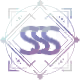
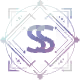
feat: improve tierlist page

Changed region(s): [[0.225, 0.3, 0.775, 0.7], [0.65, 0.325, 0.75, 0.4]]

diff --git a/src/components/tierlist/TierList.tsx b/src/components/tierlist/TierList.tsx
@@ -70,21 +70,32 @@ export default function TierList({ tier }): JSX.Element {
 
   return (
     <div className="flex flex-col gap-y-8 relative">
-      <div className="flex flex-col md:flex-row justify-between pb-8">
-        <div>
+      <div className="flex flex-col md:flex-row justify-between pb-8 w-full">
+        <div className="w-full">
+          <div className="flex flex-col md:flex-row justify-between">
+            <p className="mb-4">
+              Last updated: {formatDistanceToNow(new Date(tier.lastUpdated))}{" "}
+              ago
+            </p>
+            <p>
+              This tierlist has been made by{" "}
+              <span className="text-beige">Raon Miru#7516</span>
+            </p>
+          </div>
           <p>
-            Last updated: {formatDistanceToNow(new Date(tier.lastUpdated))} ago
-          </p>
-          <p>
-            This tierlist has been made by{" "}
-            <span className="text-beige">Raon Miru#7516</span>
-            <br />
-            <a
-              className="underline"
-              href="https://docs.google.com/document/d/1YNG8cR9lTYwNUFBOOeEAU3bNPP48MQIUGXCfpl1POwA/edit?usp=sharing"
-            >
-              You can find the source here
-            </a>
+            <div className="text-center mt-8 max-w-xl mx-auto">
+              <p>
+                Damage dealers are ranked from SSS tier to B tier, while
+                characters of other roles are not ranked in different tier but
+                only from left to right
+              </p>
+              <a
+                className="text-beige border-b border-dotted hover:border-transparent"
+                href="https://docs.google.com/document/d/1YNG8cR9lTYwNUFBOOeEAU3bNPP48MQIUGXCfpl1POwA/edit?usp=sharing"
+              >
+                More info on categorizing can be read here
+              </a>
+            </div>
           </p>
         </div>
 

diff --git a/src/models/tiers.ts b/src/models/tiers.ts
@@ -1,5 +1,6 @@
 import tierlistSubjugation from '../data/tierlist_subjugation.json'
 
+import SearchRankSSS from '../../public/ui/search/search_rank_sss.png';
 import SearchRankSS from '../../public/ui/search/search_rank_ss.png';
 import SearchRankS from '../../public/ui/search/search_rank_1.png';
 import SearchRankA from '../../public/ui/search/search_rank_2.png';
@@ -38,6 +39,7 @@ export interface Tier {
 }
 
 export interface Tiers {
+  SSS?: Tier[];
   SS?: Tier[];
   S?: Tier[];
   A?: Tier[];
@@ -64,6 +66,7 @@ export interface TiersTabs {
 }
 
 const RANK_THUMBNAILS = {
+  SSS: SearchRankSSS,
   SS: SearchRankSS,
   S: SearchRankS,
   A: SearchRankA,

diff --git a/src/pages/tierlists/[[...slug]].tsx b/src/pages/tierlists/[[...slug]].tsx
@@ -52,7 +52,7 @@ export default function TierlistsPageProps({
         <h2 className="overlap">Tierlists</h2>
         {!router.isFallback && (
           <Tabs defaultIndex={tabIndex} onChange={handleTabsChange}>
-            <TabList className="grid grid-cols-2 md:grid-cols-4 gap-8 mb-16 m:mb-14">
+            <TabList className="grid grid-cols-2 md:grid-cols-4 gap-8 mb-8">
               {tiers.map((tier) => (
                 <TierListTab key={tier.index} index={tier.index}>
                   {tier.label}

diff --git a/src/components/tierlist/TierListTab.tsx b/src/components/tierlist/TierListTab.tsx
@@ -13,7 +13,7 @@ export default function TierlistTab({ children, index }): JSX.Element {
     >
       <span
         className={classNames(
-          "font-display font-bold text-lg tracking-wider transition-colors ease-out-cubic",
+          "font-display font-bold text-xl tracking-wider transition-colors ease-out-cubic",
           selectedIndex === index ? "text-beige" : "text-grey-foreground"
         )}
       >
